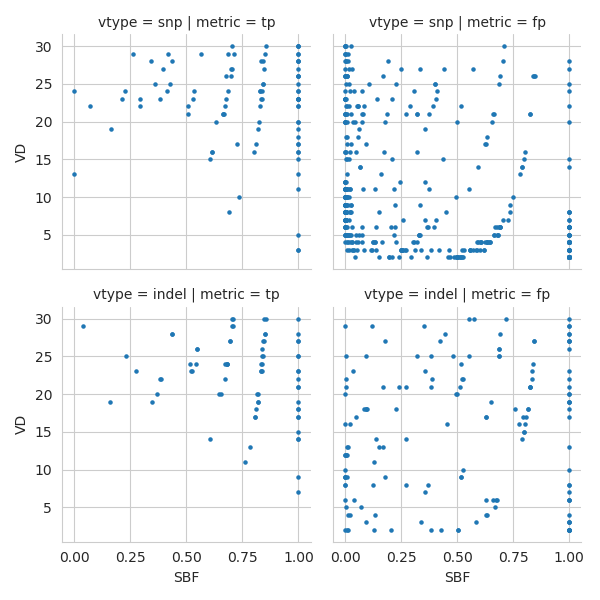
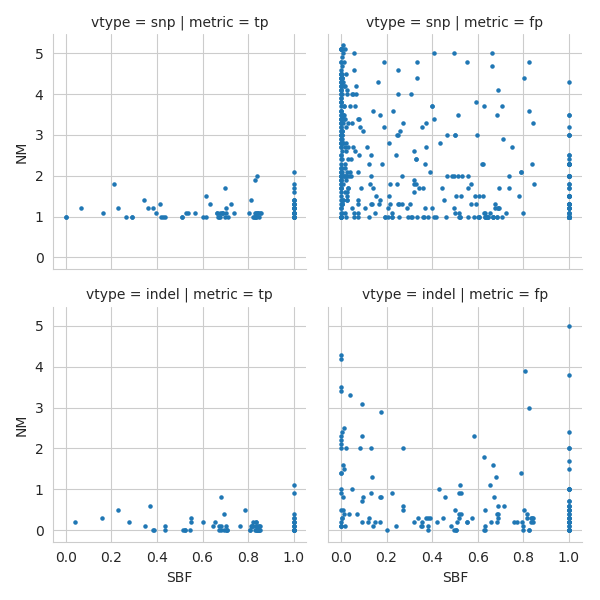
More general VarDict low frequency filters
VarDict low frequency linear filters tended to over filter on high depth panels
with strand bias and closely spaced mutations. This validates a
re-worked version that uses a cutoff based approach to remove most of
the same variants without over filtering on the cross validation
datasets.

diff --git a/somatic-lowfreq/smcounter2/vardict_fps/examine_fps.py b/somatic-lowfreq/smcounter2/vardict_fps/examine_fps.py
@@ -35,7 +35,10 @@ def main(tp_file, fp_file):
                     writer.writerow([metric, vtype, vd, af, sbf, nm])
 
     df = pd.read_csv(stat_file)
-    print(df.describe())
+    print("snp")
+    print(df.query("vtype=='snp'").describe())
+    print("indel")
+    print(df.query("vtype=='indel'").describe())
     print(dict(counts))
     print(dict(lf_counts))
     print("tp", df.query("metric == 'tp'").count())
@@ -44,7 +47,7 @@ def main(tp_file, fp_file):
     print("fp", df.query("metric == 'fp'").count())
     sns.set_style("whitegrid")
     g = sns.FacetGrid(df, col="metric", row="vtype")
-    g = g.map(plt.scatter, "SBF", "VD", s=5)
+    g = g.map(plt.scatter, "SBF", "NM", s=5)
     # g = g.map(plt.scatter, "ODDRATIO", "VD", s=5).set(xlim=(1, 5))
     # g = g.map(plt.scatter, "AF", "ODDRATIO", s=5).set(xlim=(0, max_af), ylim=(0, 3.0))
     # g = g.map(plt.scatter, "AF", "VD", s=5).set(xlim=(0, max_af))
@@ -63,11 +66,11 @@ def main(tp_file, fp_file):
             if af <= max_af and vd <= max_dp:
                 cur_score, cur_pred = score(rec, classifiers)
                 man_pred = "fp" if cur_score < 0 else "tp"
-                filter_pred = "fp" if cur_score < -2.5 else "tp"
-                if man_pred != cur_pred:
-                    print("***", metric, cur_score, man_pred, cur_pred)
-                if filter_pred != metric:
-                    print(metric, vd, af, cur_score, man_pred, cur_pred)
+                filter_pred = "fp" if cur_score < 0 else "tp"
+                #if man_pred != cur_pred:
+                #    print("***", metric, cur_score, man_pred, cur_pred)
+                #if filter_pred != metric:
+                #    print(metric, vd, af, cur_score, man_pred, cur_pred)
                 filters[filter_pred] += 1
         print(metric, dict(filters))
 
@@ -75,10 +78,11 @@ def score(rec, classifiers):
     vd, sbf, nm = rec.format("VD")[0][0], rec.INFO.get("SBF"), rec.INFO.get("NM")
     vtype = "indel" if any([len(x) > 1 for x in [rec.REF] + rec.ALT]) else "snp"
     pred = classifiers[vtype].predict([[vd, sbf, nm]])
-    if vtype == "snp":
-        return -1.7075 + vd * 0.2206 + sbf * 1.6367 - 2.7534 * nm, pred[0]
-    else:
-        return -1.9549 + vd * 0.0755 + sbf * 0.9401 - 2.2070 * nm, pred[0]
+    return -1 if (sbf < 0.1 and nm >= 2.0) else 1, pred[0]
+    # if vtype == "snp":
+    #     return -1.7075 + vd * 0.2206 + sbf * 1.6367 - 2.7534 * nm, pred[0]
+    # else:
+    #     return -1.9549 + vd * 0.0755 + sbf * 0.9401 - 2.2070 * nm, pred[0]
 
 def build_classifier(df):
     X = df[["VD", "SBF", "NM"]]

diff --git a/somatic-lowfreq/README.md b/somatic-lowfreq/README.md
@@ -191,13 +191,20 @@ removal of true positives:
 
 Using [scikit-learn](http://scikit-learn.org/stable/modules/linear_model.html)
 we developed a linear model that provided good discrimination on the N13532 test
-sample. When manually applying the developed model it removed ~65% of the false
-positives (421 out of 640) with only a single true positive (1 out of 169)
-filtered.
+sample. However, it didn't effectively replicate across multiple datasets,
+tending to over filter in higher depth panels with closely spaced mutations. After
+cross validation we ended up with a simpler filter on calls that have multiple
+mismatches (NM >= 2) and strand bias (SBF < 0.1).
 
-To assess more generally, we updated to the latest version of VarDict (1.5.5)
-with additional sensitivity and applied the filters. In comparison with the
-previous validation with VarDict 1.5.1 and no filter, it has increased
+To assess more generally, we incorporated the latest versions of VarDict with
+increased sensitivity and compared:
+
+- VarDict 1.5.1 without additional filters
+- VarDict 1.5.5 with linear model based filter
+- VarDict 1.5.8 with NM and SBF cutoff filter
+
+In comparison with the previous validation with VarDict 1.5.1 and no filter, 
+the finalized cutoff based version increased
 sensitivity for both SNPs and Indels with little to no increase in false positives:
 
 ![smcounter2 samples, fgbio min-reads 2, low frequency filters](smcounter2/vardict_fps/grading-summary-combined.png)
